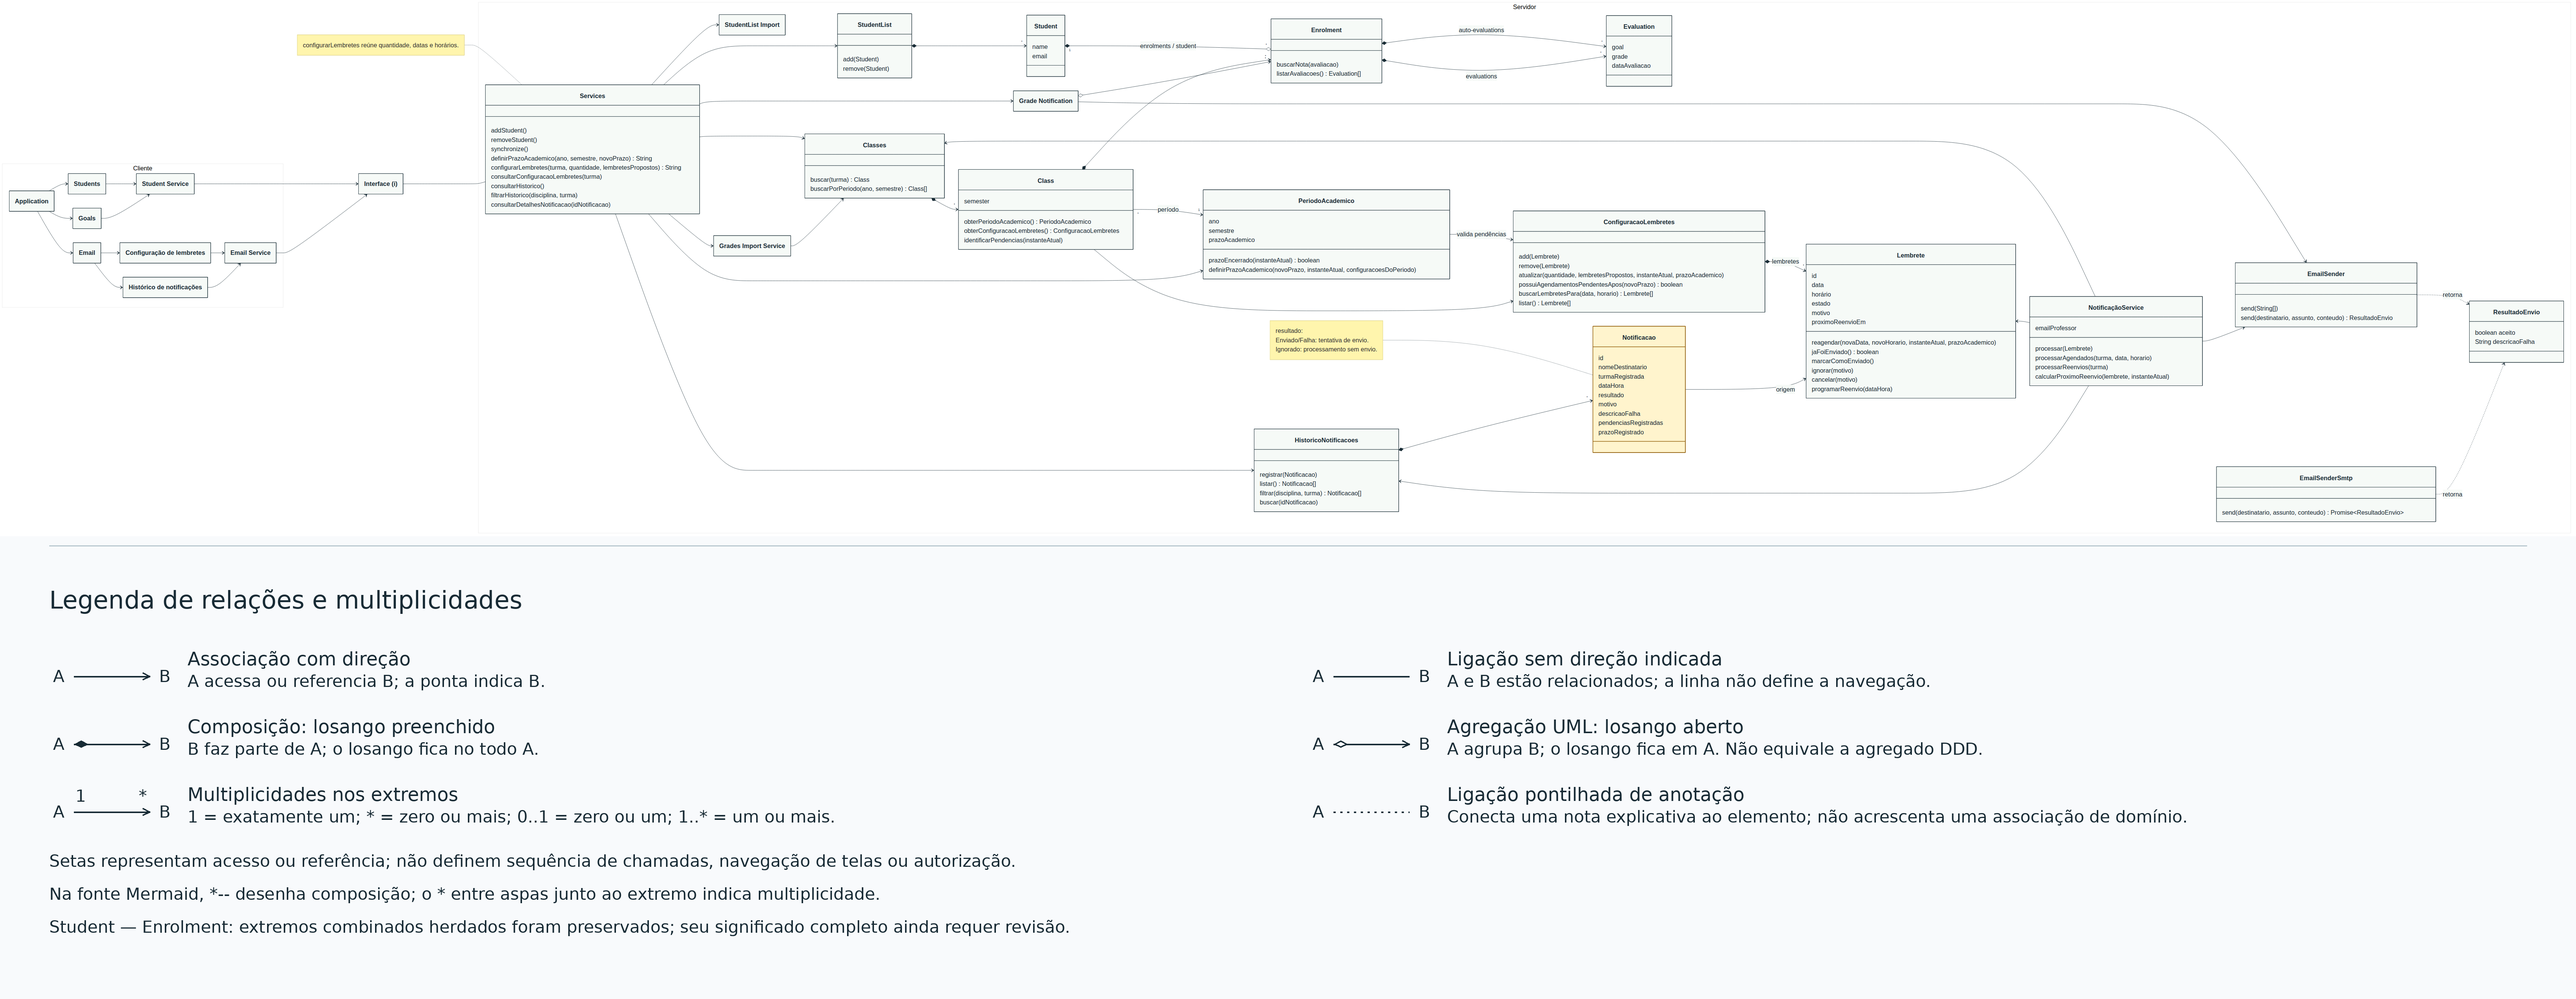
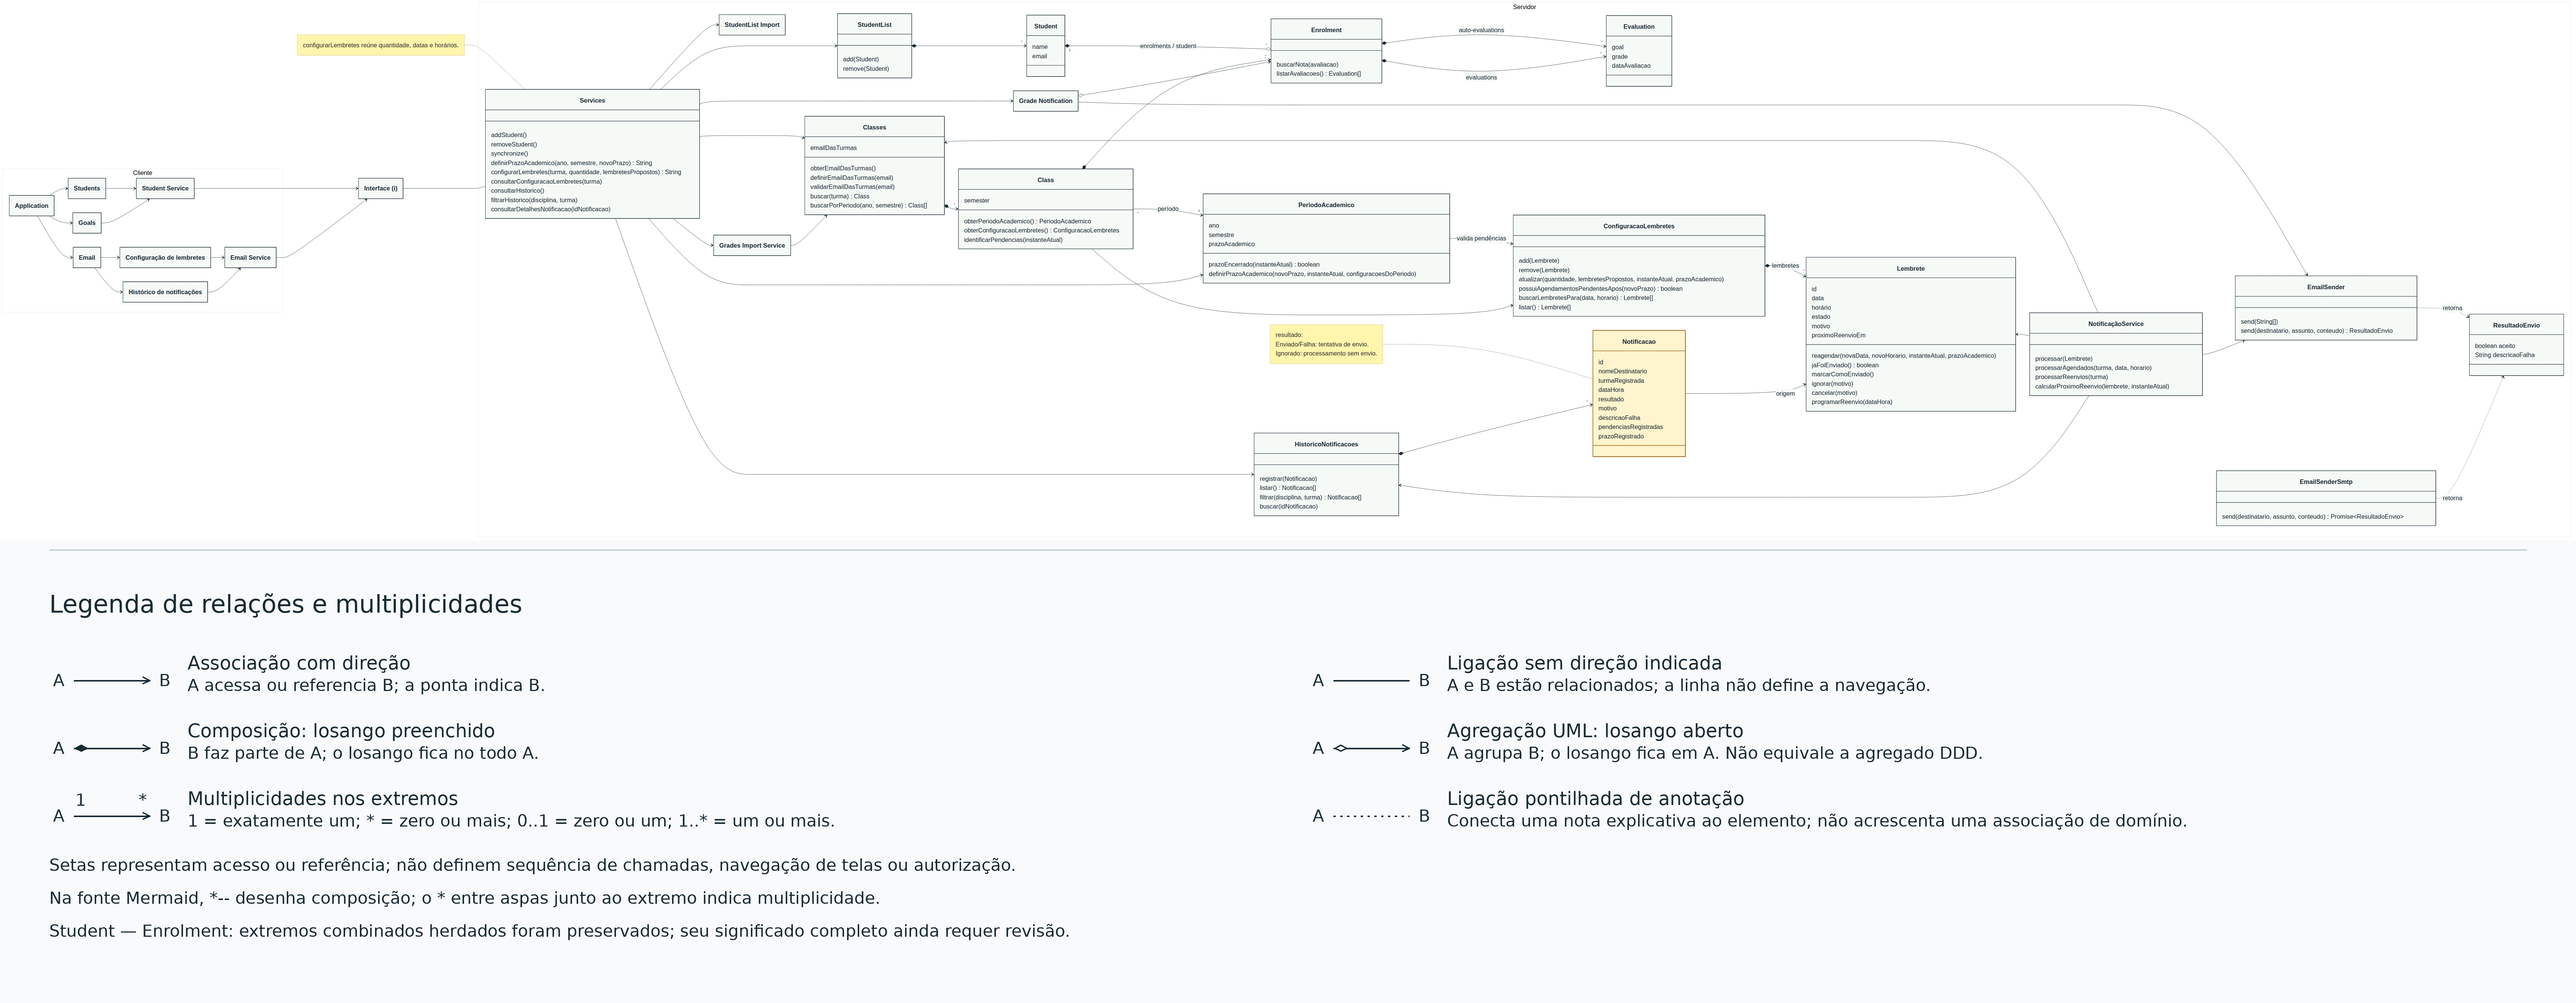
feat(server): salva e-mail compartilhado das turmas

diff --git a/server/src/server.ts b/server/src/server.ts
@@ -57,6 +57,7 @@ const saveDataToFile = (
 ): boolean => { // Grava a proposta antes de alterar períodos ou lembretes em memória.
   try {
     const data = {
+      emailDasTurmas: classes.obterEmailDasTurmas(), // Grava um único endereço no mesmo JSON das turmas e dos alunos.
       periodosAcademicos: Array.from(periodosParaSalvar.values()).map(periodo => ({
         ano: periodo.getAno(),
         semestre: periodo.getSemestre(),
@@ -99,6 +100,9 @@ const loadDataFromFile = (): void => {
     if (fs.existsSync(dataFile)) {
       const fileContent = fs.readFileSync(dataFile, 'utf-8');
       const data = JSON.parse(fileContent);
+      if (data.emailDasTurmas != null) {
+        classes.definirEmailDasTurmas(data.emailDasTurmas); // Recupera o contato quando ele existe no arquivo.
+      }
       const configuracoesSalvas: ConfiguracaoLembretes[] = Array.isArray(data.classes)
         ? data.classes.map((turma: { configuracaoLembretes?: unknown }) =>
           ConfiguracaoLembretes.fromJSON(turma.configuracaoLembretes))
@@ -459,6 +463,20 @@ app.get('/api/students/:cpf', (req: Request, res: Response) => {
     res.json(student.toJSON());
   } catch (error) {
     res.status(400).json({ error: (error as Error).message });
+  }
+});
+
+app.get('/api/classes/email', (_req: Request, res: Response) => {
+  res.json({ emailDasTurmas: classes.obterEmailDasTurmas() }); // Preenche o campo quando a aba abre.
+});
+
+app.put('/api/classes/email', (req: Request, res: Response) => {
+  try {
+    classes.definirEmailDasTurmas(req.body?.emailDasTurmas); // Valida antes de alterar o valor em memória.
+    triggerSave(); // Agenda a gravação pelo mesmo fluxo do cadastro de turmas.
+    res.json({ emailDasTurmas: classes.obterEmailDasTurmas() });
+  } catch (error) {
+    res.status(400).json({ error: (error as Error).message }); // Informa o erro de validação na tela.
   }
 });
 

diff --git a/server/src/__tests__/server.test.ts b/server/src/__tests__/server.test.ts
@@ -473,3 +473,28 @@ describe('Server API - Student Endpoints', () => {
     });
   });
 });
+
+describe('API do e-mail das turmas', () => {
+  test('cadastra e atualiza o endereço compartilhado', async () => {
+    const rota = '/api/classes/email';
+
+    // Antes do primeiro cadastro, a tela recebe um endereço vazio.
+    await request(app).get(rota).expect(200, { emailDasTurmas: null });
+
+    // O servidor remove os espaços externos antes de guardar o endereço.
+    await request(app).put(rota).send({ emailDasTurmas: ' contato@example.com ' })
+      .expect(200, { emailDasTurmas: 'contato@example.com' });
+
+    // Uma edição inválida é rejeitada e preserva o endereço cadastrado.
+    await request(app).put(rota).send({ emailDasTurmas: 'endereco-invalido' })
+      .expect(400, { error: 'Informe um e-mail válido para as turmas' });
+    await request(app).get(rota)
+      .expect(200, { emailDasTurmas: 'contato@example.com' });
+
+    // Reabrir a tela após uma edição válida devolve o endereço novo.
+    await request(app).put(rota).send({ emailDasTurmas: 'novo@example.com' })
+      .expect(200, { emailDasTurmas: 'novo@example.com' });
+    await request(app).get(rota)
+      .expect(200, { emailDasTurmas: 'novo@example.com' });
+  });
+});

diff --git a/server/src/models/Classes.ts b/server/src/models/Classes.ts
@@ -3,9 +3,29 @@ import { Student } from './Student';
 
 export class Classes {
   private classes: Class[] = [];
+  private emailDasTurmas: string | null = null; // Começa vazio até o primeiro cadastro.
 
   constructor() {
     // Classes management is independent of persistence
+  }
+
+  obterEmailDasTurmas(): string | null {
+    return this.emailDasTurmas; // Consulta o endereço compartilhado pelo conjunto de turmas.
+  }
+
+  definirEmailDasTurmas(email: string): void {
+    this.emailDasTurmas = Classes.validarEmailDasTurmas(email); // Só substitui o endereço após validar.
+  }
+
+  static validarEmailDasTurmas(email: unknown): string {
+    const endereco = typeof email === 'string' ? email.trim() : ''; // Remove espaços externos e trata entradas de outros tipos como vazias.
+    const formatoEmail = /^[a-zA-Z0-9]+([._+-][a-zA-Z0-9]+)*@[a-zA-Z0-9]+([.-][a-zA-Z0-9]+)*\.[a-zA-Z]{2,}$/;
+
+    if (!formatoEmail.test(endereco)) {
+      throw new Error('Informe um e-mail válido para as turmas'); // Informa o que corrigir antes de tentar salvar novamente.
+    }
+
+    return endereco; // Devolve o valor normalizado para gravação.
   }
 
   // Add a new class
